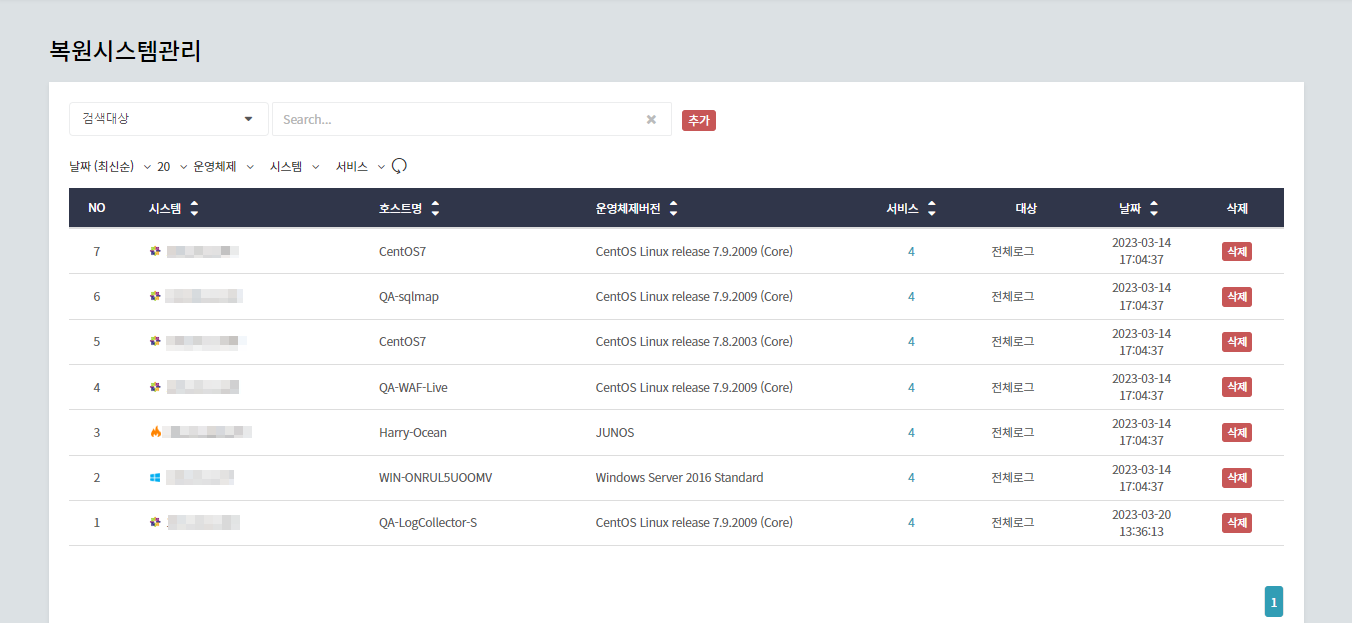
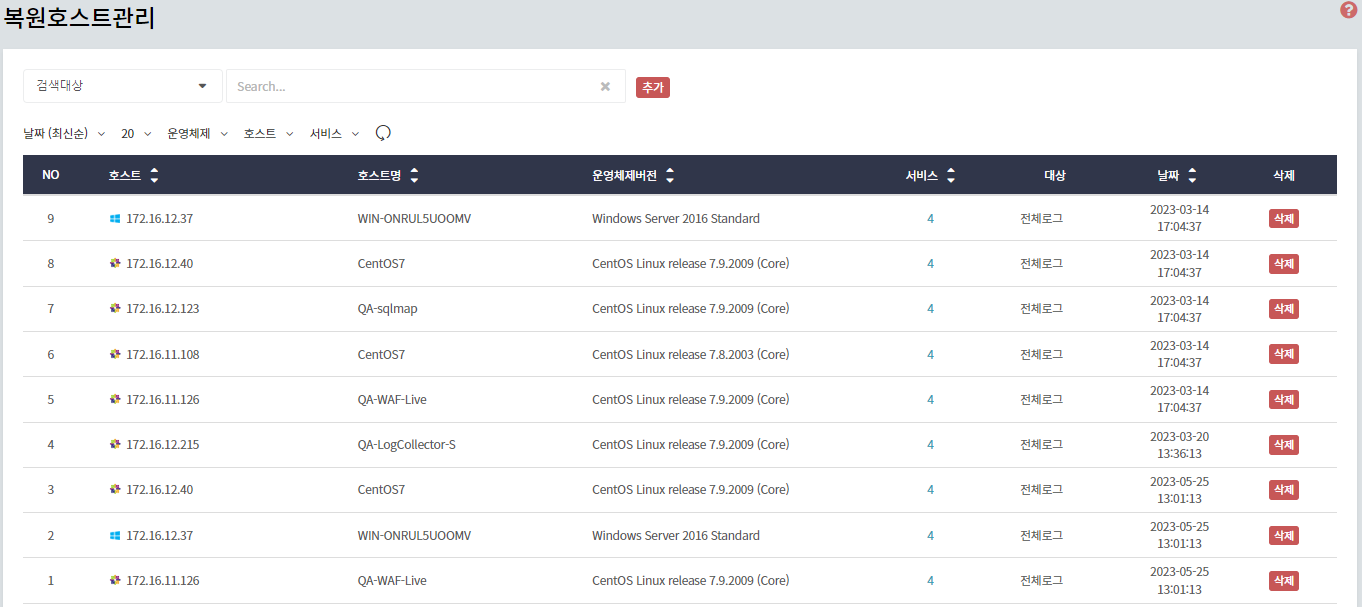
20230602-H1417

diff --git a/ko/plura/v5/function/common/ko_manage_peristalsis.md b/ko/plura/v5/function/common/ko_manage_peristalsis.md
@@ -54,16 +54,16 @@ topnav: topnav
 4-2. 알림 상세 선택   
  [![image](/docs/images/Manual/common/manage/peristalsis/11.png){: width="800" }](/docs/images/Manual/common/manage/peristalsis/11.png){: target="_blank"}
 
-- 추가, 삭제 버튼을 이용하여 syslog 알림을 받을 서버 편집을 할 수 있습니다.
+- 추가, 삭제 버튼을 이용하여 Syslog 알림을 받을 서버 편집을 할 수 있습니다.
 - 탭 이동(탐지, 방어, 사용로그)을 하여 설정을 변경할 수 있습니다.
 - 편집 버튼을 클릭하면 상세 알림을 선택할 수 있는 팝업창이 노출됩니다.
-   - 탐지 : 상관분석, 시스템, 웹, 네트워크, 계정탈취, 데이터 유출, 마이터 어택, 웹방화벽, 응용프로그램, 호스트보안
-   - 방어 : 상관분석, 시스템, 웹, 네트워크, 계정탈취, 데이터 유출, 웹방화벽, 호스트보안
-   - 사용로그 : 멤버, 필터, 시스템, 방어, 고객지원, 기타
+   - 탐지 : 상관분석, 호스트, 웹, 네트워크, 계정탈취, 데이터 유출, 마이터 어택, 웹방화벽, 응용프로그램, 호스트보안
+   - 방어 : 상관분석, 호스트, 웹, 네트워크, 계정탈취, 데이터 유출, 웹방화벽, 호스트보안
+   - 사용로그 : 멤버, 필터, 호스트, 방어, 고객지원, 기타
 
 <br />
 
-4-3. syslog 알림을 받고자 하는 서버의 환경 정보 입력
+4-3. Syslog 알림을 받고자 하는 서버의 환경 정보 입력
 - 프로토콜, Syslog 포맷, 서버 IP 주소, 포트번호, 개행타입을 입력합니다.
    - Syslog 포맷 : RFC3164, RFC5424, CEF 지원   
    ※ CEF : ArcSight CEF 포맷임.

diff --git a/ko/plura/v5/function/common/ko_manage_use.md b/ko/plura/v5/function/common/ko_manage_use.md
@@ -7,8 +7,8 @@ topnav: topnav
 
 <br />
 
-- 사용 : 데이터 유출 설정, 웹 개인 정보 숨김, 웹 탐지 예외 설정, 계정탈취 예외 설정, 웹/시스템/응용프로그램/네트워크 업로드 설정을 할 수 있습니다.
-- PLURA V5 Forensic 제품에서는 데이터 유출 설정, 웹/시스템 업로드 설정 기능을 지원하지 않습니다.
+- 사용 : 데이터 유출 설정, 웹 개인 정보 숨김, 웹 탐지 예외 설정, 계정탈취 예외 설정, 웹/호스트/응용프로그램/네트워크 업로드 설정을 할 수 있습니다.
+- PLURA V5 Forensic 제품에서는 데이터 유출 설정, 웹/호스트 업로드 설정 기능을 지원하지 않습니다.
 [![image](/docs/images/Manual/common/manage/use/16.png){: width="600" }](/docs/images/Manual/common/manage/use/16.png){: target="_blank"}
 
 <br />
@@ -64,7 +64,7 @@ topnav: topnav
 
 <br />
 
-- 시스템 업로드 : 사용자가 원하는 시스템 업로드 형식을 OS 별로 선별 또는 예외처리할 수 있습니다.   
+- 호스트 업로드 : 사용자가 원하는 시스템 업로드 형식을 OS 별로 선별 또는 예외처리할 수 있습니다.   
 [![image](/docs/images/Manual/common/manage/use/9.png){: width="600" }](/docs/images/Manual/common/manage/use/9.png){: target="_blank"}
 
 

diff --git a/ko/plura/v5/function/common/ko_manage_group.md b/ko/plura/v5/function/common/ko_manage_group.md
@@ -34,9 +34,9 @@ topnav: topnav
 - 추가, 삭제 버튼을 이용하여 웹훅 알림을 받을 서버 편집을 할 수 있습니다.
 
 - 편집 버튼을 클릭하면 상세 알림을 선택할 수 있는 팝업창이 노출됩니다.   
-  - 탐지 : 마이터, 상관분석, 데이터유출, 계정탈취, 시스템로그, 웹로그, 웹방화벽, 네트워크로그, 응용프로그램, 호스트보안
-  - 방어 : 상관분석, 데이터유출, 계정탈취, 시스템로그, 웹로그, 웹방화벽, 네트워크로그, 호스트보안
-  - 사용로그 : 멤버, 필터, 시스템, 방어, 고객지원, 기타   
+  - 탐지 : 마이터, 상관분석, 데이터유출, 계정탈취, 호스트로그, 웹로그, 웹방화벽, 네트워크로그, 응용프로그램, 호스트보안
+  - 방어 : 상관분석, 데이터유출, 계정탈취, 호스트로그, 웹로그, 웹방화벽, 네트워크로그, 호스트보안
+  - 사용로그 : 멤버, 필터, 호스트, 방어, 고객지원, 기타   
   - 에이전트 중지
 
 [![image](/docs/images/Manual/common/manage/group/04.png)](/docs/images/Manual/common/manage/group/04.png){: target="_blank"}

diff --git a/ko/plura/v5/function/common/ko_search_fun.md b/ko/plura/v5/function/common/ko_search_fun.md
@@ -24,7 +24,7 @@ topnav: topnav
      로그조회 페이지 : 자세히보기 xml 기준으로 일부분 검색 가능
      필터관리 : 이벤트타입, 필터명 검색 가능
      IP주소 추출 : IP, 국가, 추출일 검색 가능
-     시스템 관리 : 시스템 IP, 호스트명, 등록일 검색 가능
+     시스템 관리 : 호스트 IP, 호스트명, 등록일 검색 가능
 
      검색 기능은 검색창에  찾고싶은 검색어를 입력하거나 자세히보기의 XML을 기반으로 원하는 문구를 copy&paste 하여 검색할 수 있습니다.
      아래와 같은 방법으로 검색기능을 활용할 수 있습니다.
@@ -106,7 +106,7 @@ topnav: topnav
 
 ### 10. 다음은 필터탐지 로그 검색에 관한 예제 입니다.
 
-     - 로그인에 대한  탐지만 보기를 원할 때   “로그인” 이라는 단어를 입력합니다.
+     - 로그인에 대한  탐지만 보기를 원할 때 “로그인” 이라는 단어를 입력합니다.
      로그인과 관련된 필터 탐지 내용을 볼 수 있습니다.
 
 <br />

diff --git a/ko/plura/v5/function/common/ko_personal.md b/ko/plura/v5/function/common/ko_personal.md
@@ -29,7 +29,7 @@ topnav: topnav
   
   ※ 최근 설정 간격은 이전 알림 설정 간격 이후부터 적용됩니다.   
 
-- 탐지/방어 알림 : 웹방화벽, 호스트보안, 마이터어택, 상관분석, 데이터유출, 계정탈취, 시스템, 웹, 네트워크 로그의 실시간 탐지와 방어에 대한 알림을 받을 수 있습니다.
+- 탐지/방어 알림 : 웹방화벽, 호스트보안, 마이터어택, 상관분석, 데이터유출, 계정탈취, 호스트, 웹, 네트워크 로그의 실시간 탐지와 방어에 대한 알림을 받을 수 있습니다.
 
 - 리소스모니터링 : 리소스 항목에 대한 알림을 받을 수 있습니다.   
 

diff --git a/ko/plura/v5/function/common/ko_statistics_h_map.md b/ko/plura/v5/function/common/ko_statistics_h_map.md
@@ -10,6 +10,6 @@ topnav: topnav
 
 - 탐지 건이 많은 순으로 각 필터별 탐지내용을 조회할 수 있습니다.
 
-- 시스템 로그에 대해서 확인할 수 있습니다.
+- 호스트/네트워크 로그에 대해서 확인할 수 있습니다.
 
 [![image](/docs/images/Manual/common/statistics/hitmap/01.png){: width="800" }](/docs/images/Manual/common/statistics/hitmap/01.png){: target="_blank"}

diff --git a/ko/plura/v5/function/common/ko_statistics_box_p.md b/ko/plura/v5/function/common/ko_statistics_box_p.md
@@ -12,7 +12,7 @@ topnav: topnav
 
 - 통계제외일을 설정하여 박스플롯에서 제외시킬 수 있습니다.
 
-- 시스템 로그에 대해서 확인할 수 있습니다.
+- 호스트/네트워크 로그에 대해서 확인할 수 있습니다.
 
 [![image](/docs/images/Manual/common/statistics/boxplot/01.png){: width="800" }](/docs/images/Manual/common/statistics/boxplot/01.png){: target="_blank"}
 

diff --git a/ko/plura/v5/function/common/ko_statistics_w_cloud.md b/ko/plura/v5/function/common/ko_statistics_w_cloud.md
@@ -8,7 +8,7 @@ topnav: topnav
 ## 1. 통계 항목
 - 일별/주별/월별로 탐지된 건들의 핵심 내용을 시각화하여 보여줍니다.
 
-- 시스템 로그에 대해서 확인할 수 있습니다.
+- 호스트/네트워크 로그에 대해서 확인할 수 있습니다.
 
 - 사용자가 표시 갯수 또는 탐지수를 기준으로 노출 설정을 할 수 있습니다.
 

diff --git a/ko/plura/v5/function/common/ko_restore.md b/ko/plura/v5/function/common/ko_restore.md
@@ -59,9 +59,9 @@ topnav: topnav
 
 <br />
 
-## 4. 복원 시스템 관리
+## 4. 복원 호스트 관리
 
-- 복원된 시스템 정보를 확인할 수 있습니다.
+- 복원된 호스트 정보를 확인할 수 있습니다.
 [![image](/docs/images/Manual/common/manage/restore/004.png){: width="600" }](/docs/images/Manual/common/manage/restore/004.png){: target="_blank"}
 
 <br />
